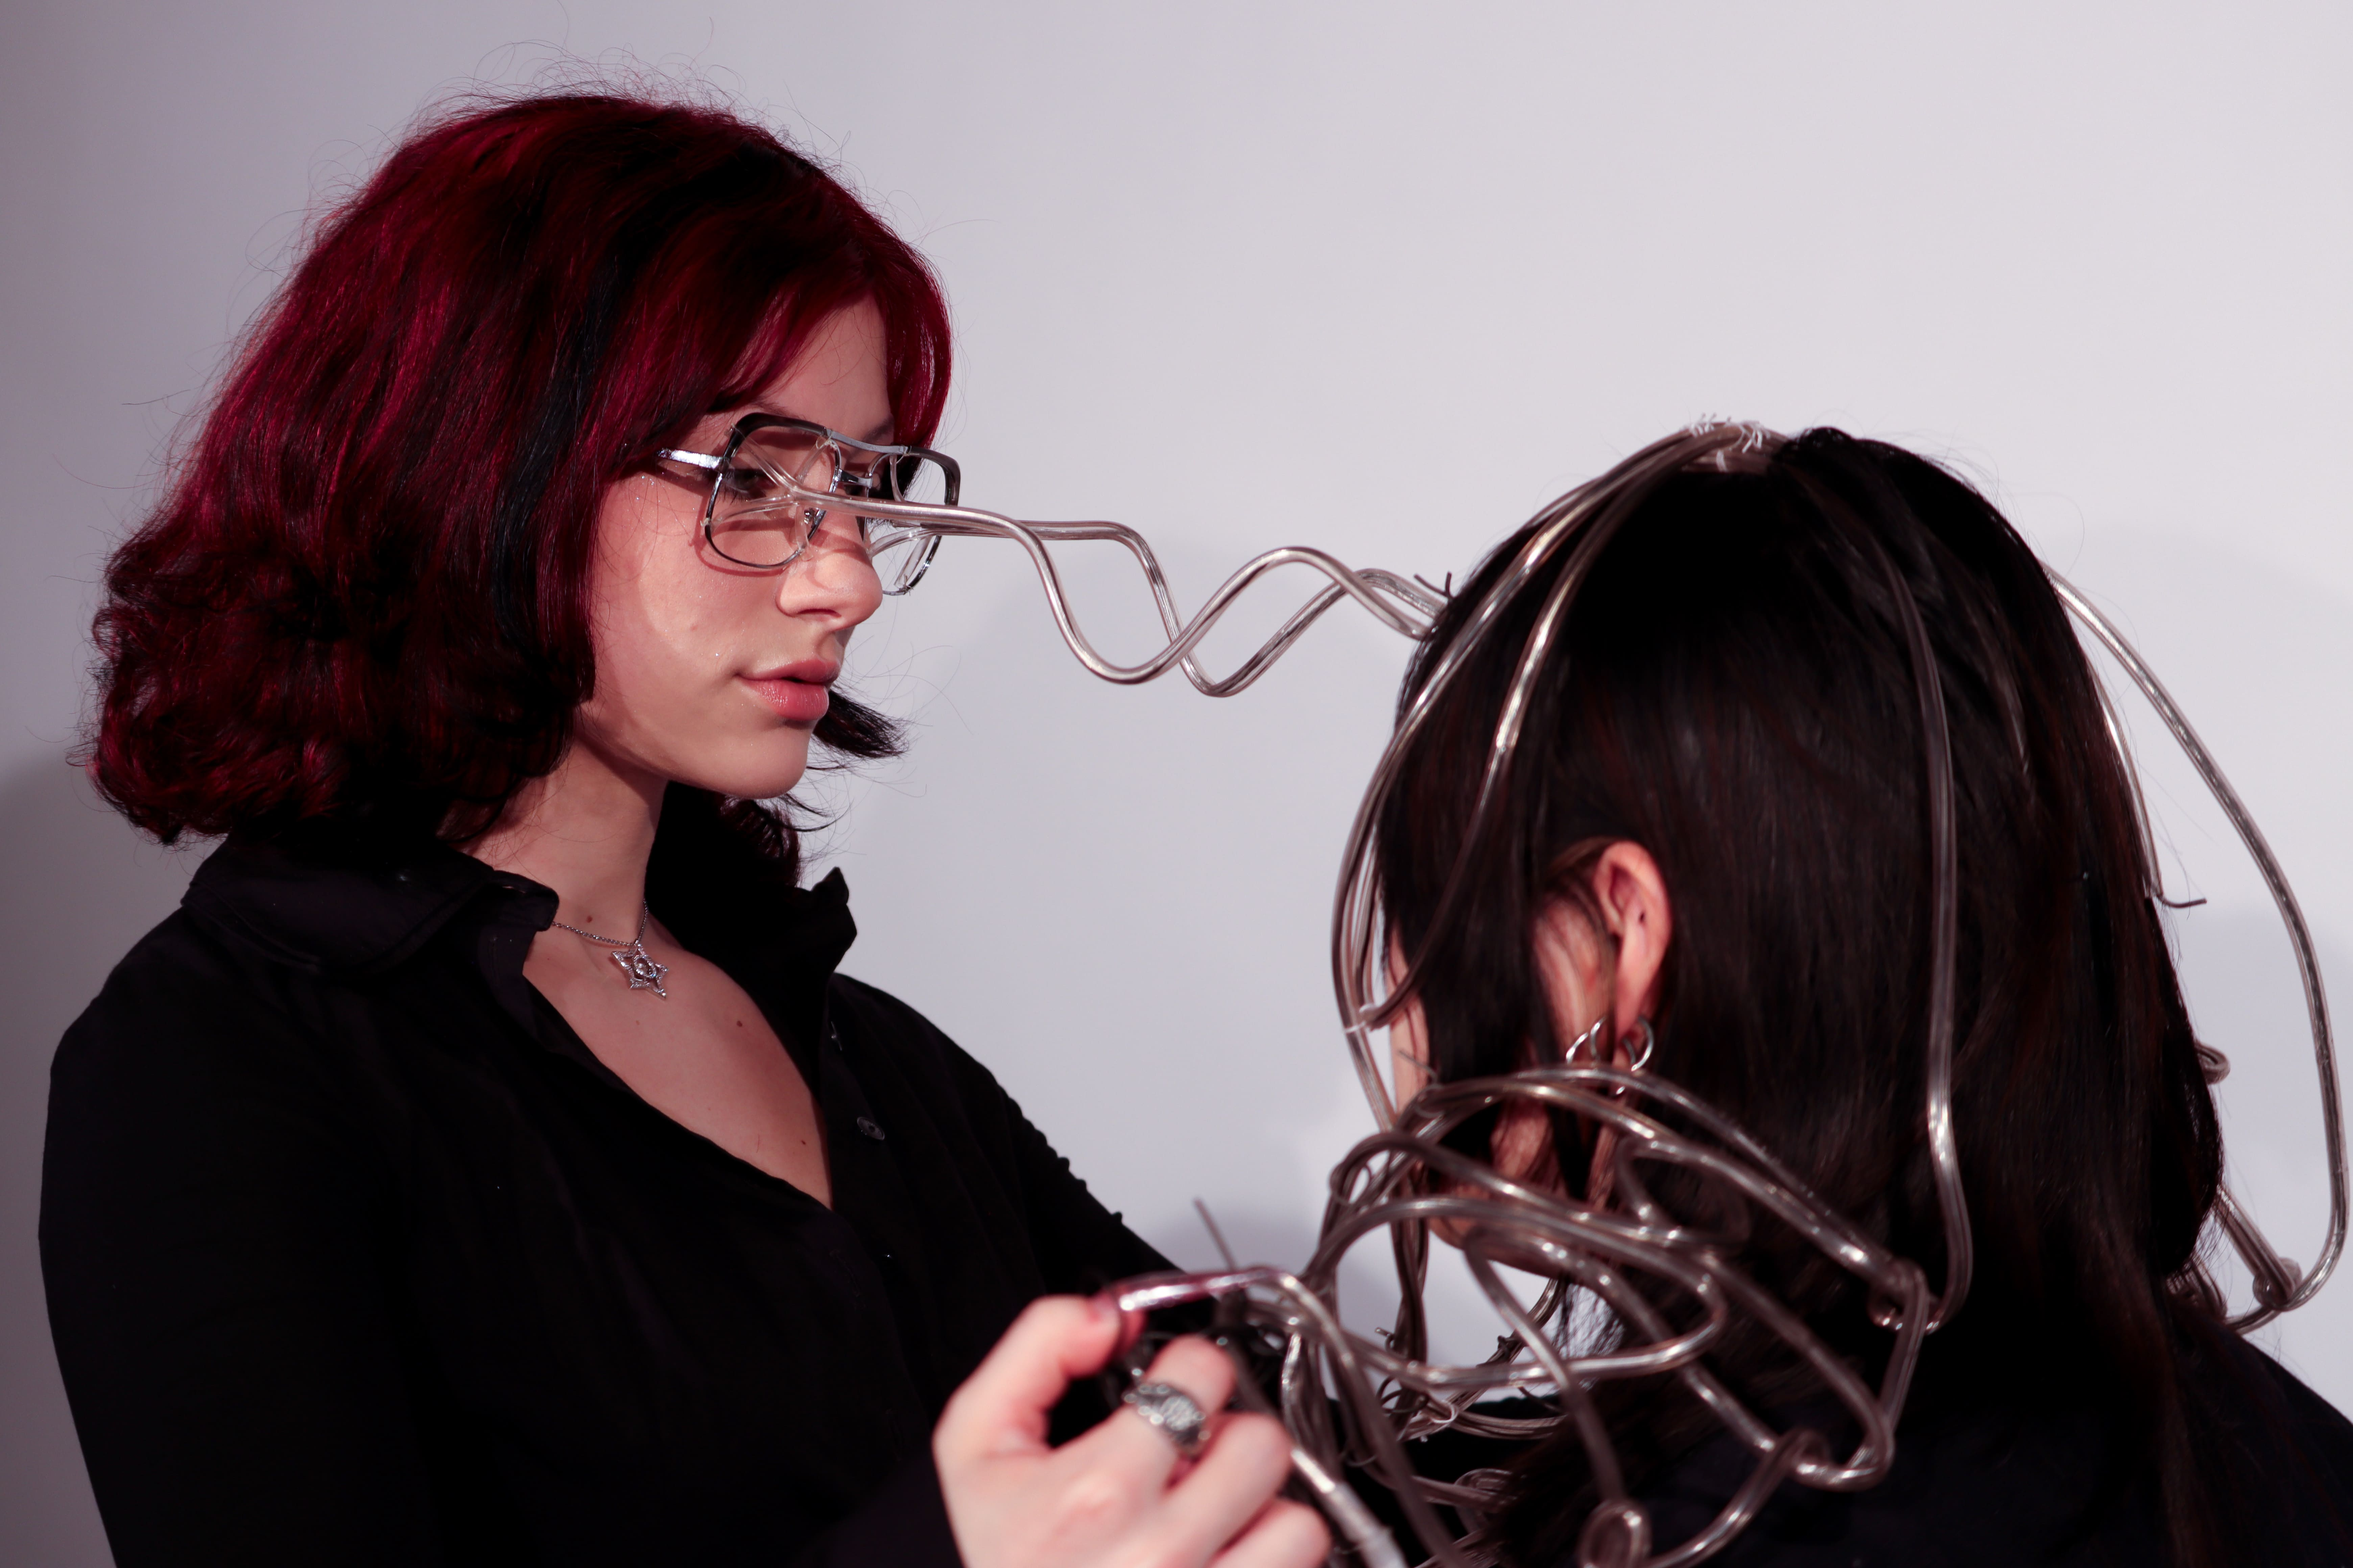
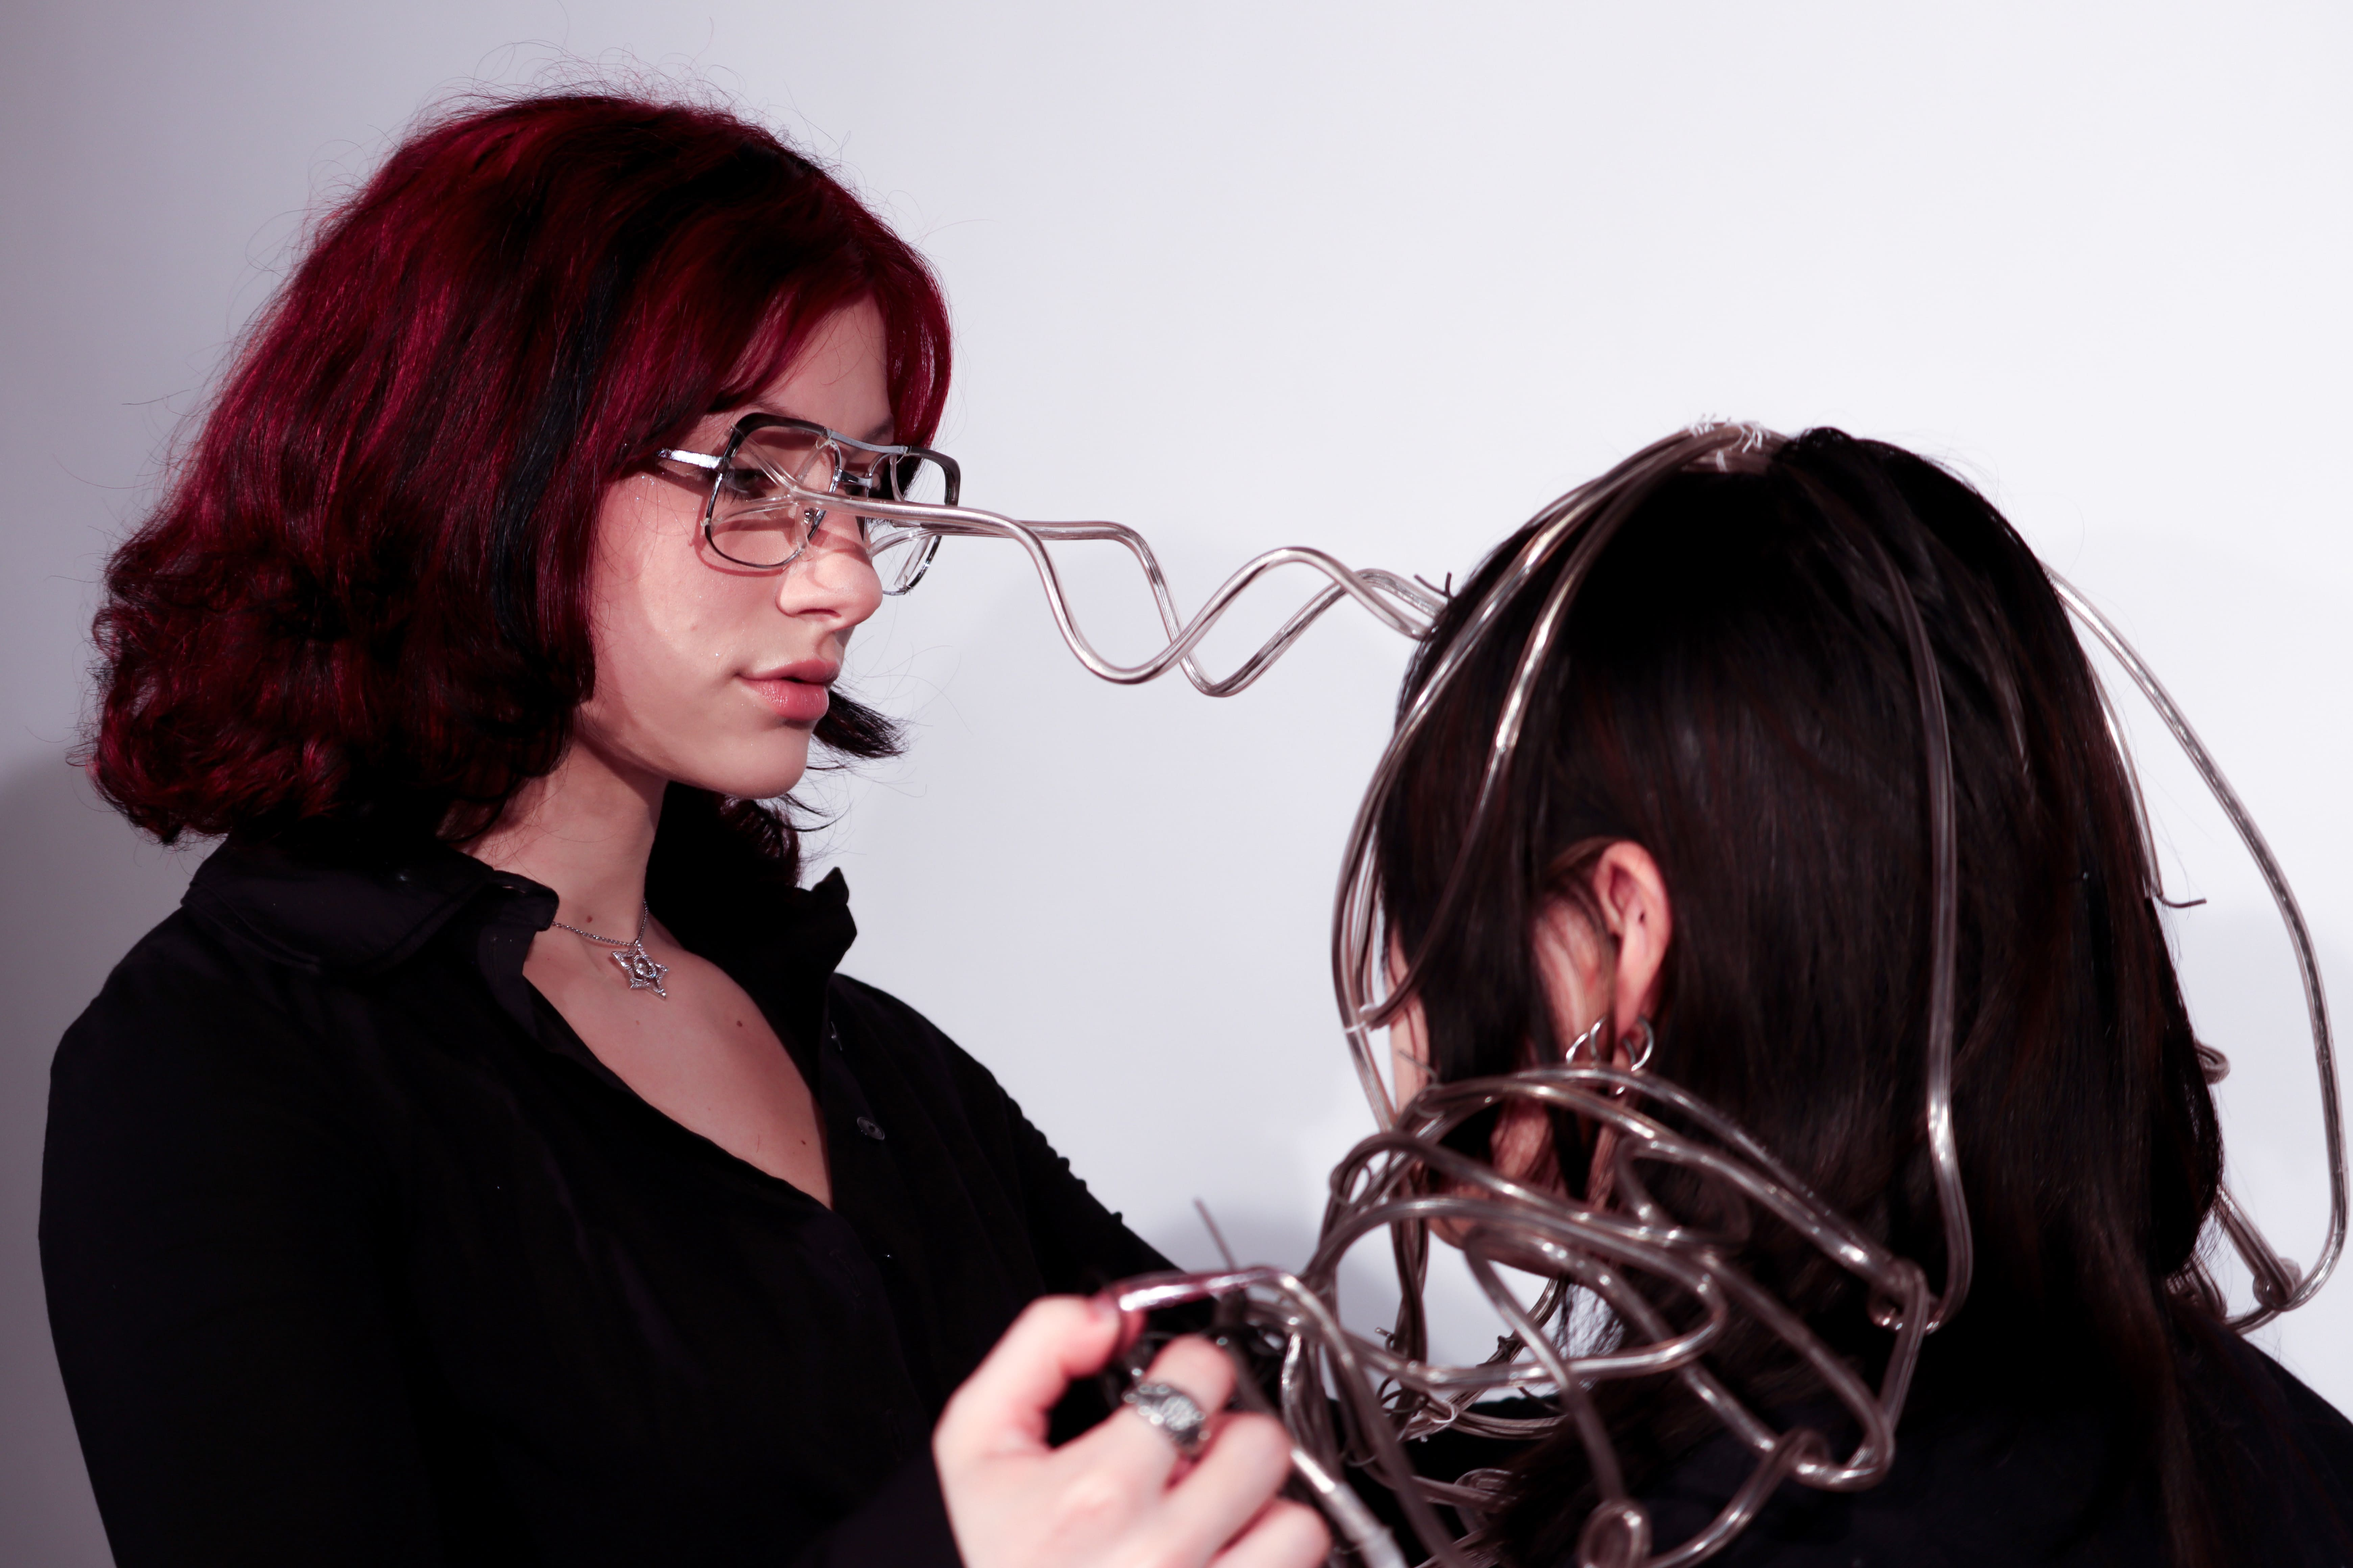
- Added new photos for ocular prosthetic - Edited color on photos

diff --git a/src/Data.jsx b/src/Data.jsx
@@ -117,13 +117,14 @@ export const items = [
             "/images/ocular_05.jpg",
             // "/images/ocular_06.jpg",
             // "/images/ocular_07.jpg",
-            "/images/ocular_08.jpg",
+            // "/images/ocular_08.jpg",
             // "/images/ocular_10.jpg",
             // "/images/ocular_11.jpg",
             // "/images/ocular_12.jpg",
             "/images/ocular_13.jpg",
-            "/images/ocular_14.jpg",
-            "/images/ocular_15.jpg",
+            // "/images/ocular_14.jpg",
+            "/images/ocular_18.jpg",
+            // "/images/ocular_15.jpg",
             "/images/ocular_17.jpg",
             // "/images/ocular_16.jpg",
             "/images/ocular_03.jpg",
